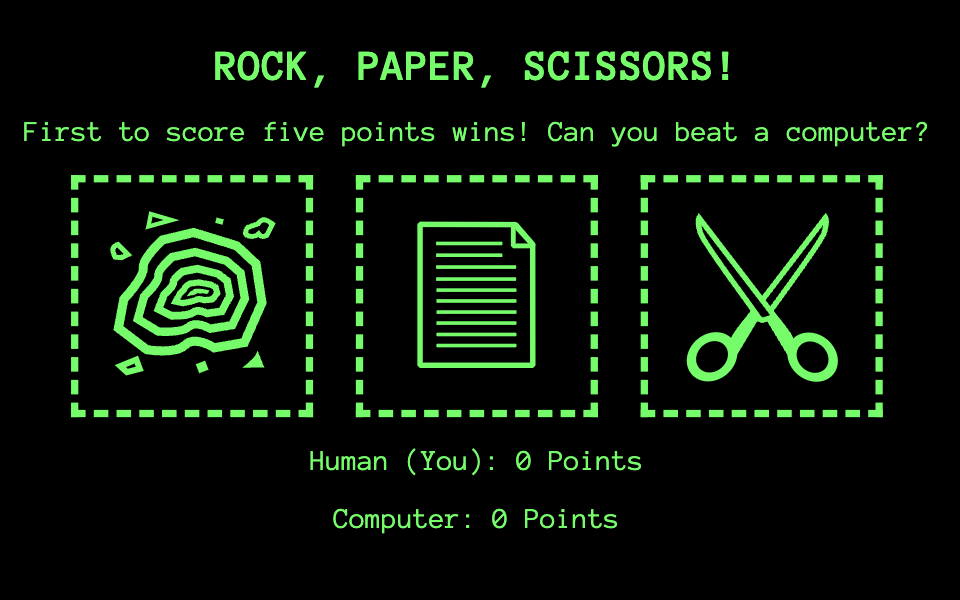
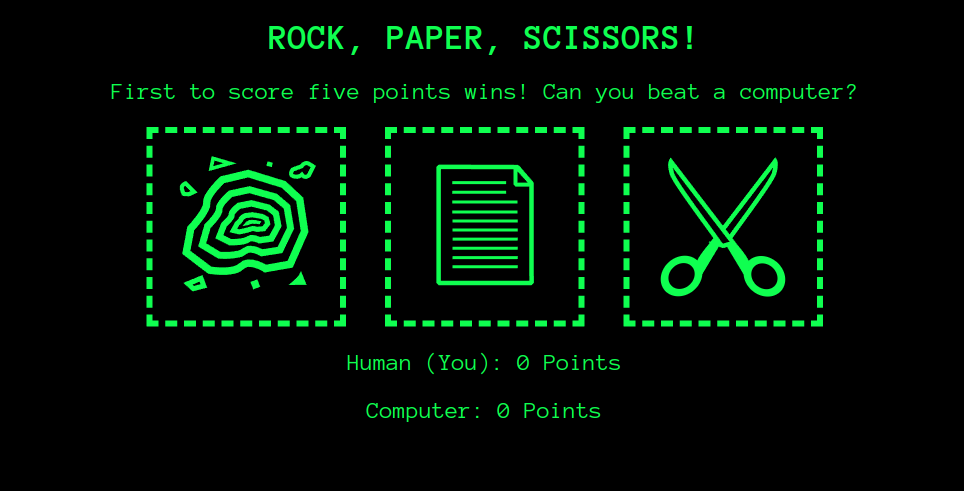
Update Fresh, add nav, remove counter

Changed region(s): [[0.0312, 0.0305, 0.9688, 0.7943], [0.3438, 0.8248, 0.6562, 0.8859]]

diff --git a/routes/index.tsx b/routes/index.tsx
@@ -18,19 +18,24 @@ export const handler: Handlers<HomeProps> = {
 };
 
 const testProject: ProjectProps = {
-  name: 'Rock Paper Scissors Game',
-  url: 'https://jake-abed.github.io/rock-paper-scissors/',
-  imagePath: '/rps-screenshot.png',
-  desc: 'A simple, quick game of RPS. First to five wins. All art and designs are original.',
-  icons: ['/badges/html5-badge.png', '/badges/css-logo.png', '/badges/js-logo.png']
-}
+  name: "Rock Paper Scissors Game",
+  url: "https://jake-abed.github.io/rock-paper-scissors/",
+  imagePath: "/rps-screenshot.png",
+  desc:
+    "A simple, quick game of RPS. First to five wins. All art and designs are original.",
+  icons: [
+    "/badges/html5-badge.png",
+    "/badges/css-logo.png",
+    "/badges/js-logo.png",
+  ],
+};
 
 const testProject2: ProjectProps = {
-  name: 'Cheap Dog',
-  url: 'https://jakeabed.dev',
-  imagePath: '/rps-screenshot.png',
-  desc: 'A cheap dog made of fresh meat and bones.'
-}
+  name: "Cheap Dog",
+  url: "https://jakeabed.dev",
+  imagePath: "/basilisk-library.png",
+  desc: "A cheap dog made of fresh meat and bones.",
+};
 
 export default function Home(props: PageProps<HomeProps>) {
   return (
@@ -44,25 +49,19 @@ export default function Home(props: PageProps<HomeProps>) {
             Welcome to Jake Abed's in progress portfolio.
           </p>
         </div>
-        <div class="bg-pink-200 p-4 mx-auto my-4 w-9/12">
-          <Counter start={props.data.start} />
-        </div>
         <div class="flex mx-auto w-9/12 gap-4 flex-wrap">
-          <Project class="mx-auto max-w-xs p-4 flex flex-col items-center bg-pink-50 border-1 border-black flex-wrap"
-            url = {testProject.url}
-            name = {testProject.name}
-            desc = {testProject.desc}
-            imagePath= {testProject.imagePath}
-            icons={testProject.icons}>
+          <Project
+            class="mx-auto max-w-xs p-4 flex flex-col items-center bg-pink-50 border-1 border-black flex-wrap"
+            {...testProject}
+          >
           </Project>
-          <Project class="mx-auto max-w-xs p-4 flex flex-col items-center bg-pink-50 border-1 border-black flex-wrap"
-            url = {testProject2.url}
-            name = {testProject2.name}
-            desc = {testProject2.desc}>
+          <Project
+            class="mx-auto max-w-xs p-4 flex flex-col items-center bg-pink-50 border-1 border-black flex-wrap"
+            {...testProject2}
+          >
           </Project>
         </div>
       </body>
-      
     </>
   );
 }

diff --git a/components/Project.tsx b/components/Project.tsx
@@ -3,19 +3,20 @@ import { IS_BROWSER } from "$fresh/runtime.ts";
 import { ProjectProps } from "../utils/interfaces.ts";
 
 export function Project(props: ProjectProps) {
-    return (
-        <div class={props.class}
-            id={props.id ? props.id : ''}>
-            <a target="_blank" href={props.url} >
-                <img src={props.imagePath}></img>
-            </a>
-            <a target="_blank" href={props.url}>
-                <h3 class="font-bold">{props.name}</h3>
-            </a>
-            <p>{props.desc}</p>
-            <div class="flex flex-cols gap-4 justify-center">
-                {props.icons?.map(icon => <img width="32" height="32" src={icon}></img>)}
-            </div>
-        </div>
-    )
+  return (
+    <div class={props.class} id={props.id ? props.id : ""}>
+      <a target="_blank" href={props.url}>
+        <img src={props.imagePath}></img>
+      </a>
+      <a target="_blank" href={props.url}>
+        <h3 class="font-bold">{props.name}</h3>
+      </a>
+      <p>{props.desc}</p>
+      <div class="flex flex-cols gap-4 justify-center">
+        {props.icons?.map((icon) => (
+          <img width="32" height="32" src={icon}></img>
+        ))}
+      </div>
+    </div>
+  );
 }

diff --git a/routes/_app.tsx b/routes/_app.tsx
@@ -1,0 +1,38 @@
+import { AppProps } from "$fresh/server.ts";
+import { Nav } from "../components/Nav.tsx";
+
+const navSections = [
+  "Home",
+  "About Me",
+  "Projects",
+  "Skills",
+  "Contact Me",
+];
+
+export default function App({ Component }: AppProps) {
+  return (
+    <html>
+      <head>
+        <meta charset="utf-8" />
+        <meta name="viewport" content="width=device-width, initial-scale=1.0" />
+        <link rel="preconnect" href="https://fonts.googleapis.com"></link>
+        <link
+          rel="preconnect"
+          href="https://fonts.gstatic.com"
+          crossorigin="true"
+        >
+        </link>
+        <link
+          href="https://fonts.googleapis.com/css2?family=Monoton&display=swap"
+          rel="stylesheet"
+        >
+        </link>
+        <title>Jake Abed's Portfolio</title>
+      </head>
+      <body>
+        <Nav sections={navSections} />
+        <Component />
+      </body>
+    </html>
+  );
+}

diff --git a/fresh.gen.ts b/fresh.gen.ts
@@ -1,22 +1,22 @@
-// DO NOT EDIT. This file is generated by fresh.
+// DO NOT EDIT. This file is generated by Fresh.
 // This file SHOULD be checked into source version control.
 // This file is automatically updated during development when running `dev.ts`.
 
-import config from "./deno.json" assert { type: "json" };
-import * as $0 from "./routes/api/count.ts";
-import * as $1 from "./routes/index.tsx";
+import * as $0 from "./routes/_app.tsx";
+import * as $1 from "./routes/api/count.ts";
+import * as $2 from "./routes/index.tsx";
 import * as $$0 from "./islands/Counter.tsx";
 
 const manifest = {
   routes: {
-    "./routes/api/count.ts": $0,
-    "./routes/index.tsx": $1,
+    "./routes/_app.tsx": $0,
+    "./routes/api/count.ts": $1,
+    "./routes/index.tsx": $2,
   },
   islands: {
     "./islands/Counter.tsx": $$0,
   },
   baseUrl: import.meta.url,
-  config,
 };
 
 export default manifest;

diff --git a/components/Nav.tsx b/components/Nav.tsx
@@ -1,0 +1,23 @@
+import { JSX } from "preact";
+import { IS_BROWSER } from "$fresh/runtime.ts";
+
+interface NavElement extends JSX.HTMLAttributes<HTMLDivElement> {
+  sections: Array<string>;
+}
+
+export function Nav(props: NavElement) {
+  return (
+    <nav class="w-full flex flex-wrap justify-between bg-white py-2 px-4">
+      <h1 class="font-monoton text-5xl">Jake Abed</h1>
+      <div class="hamburger-menu flex lg:hidden">
+      </div>
+      <ul class="flex items-center flex-wrap gap-8">
+        {props.sections.map((section) => (
+          <a href={"#" + section.replace(" ", "")}>
+            <li class="font-bold">{section}</li>
+          </a>
+        ))}
+      </ul>
+    </nav>
+  );
+}

diff --git a/twind.config.ts b/twind.config.ts
@@ -2,4 +2,9 @@ import { Options } from "$fresh/plugins/twind.ts";
 
 export default {
   selfURL: import.meta.url,
+  theme: {
+    fontFamily: {
+      "monoton": ["Monoton", "sans-serif"],
+    },
+  },
 } as Options;
